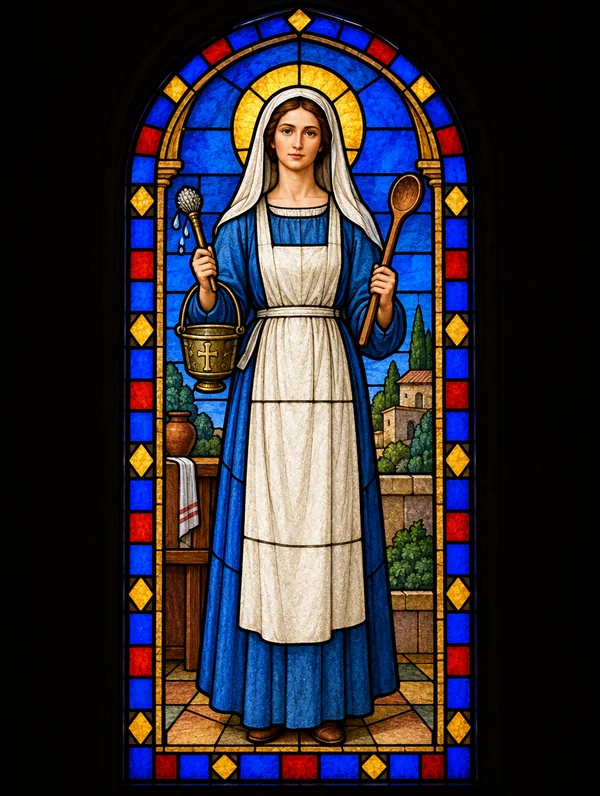
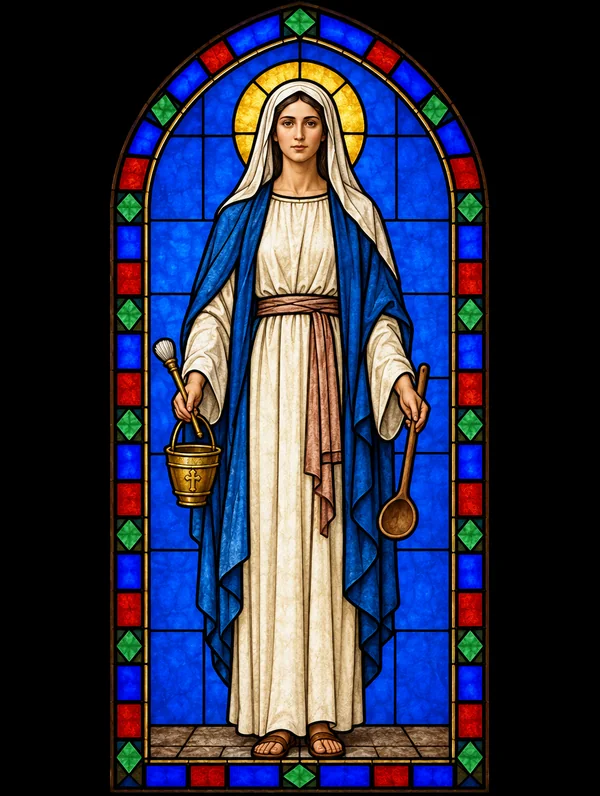
Mais quatro imagens refeitas: Helena, Marta e as duas de São Josemaria
Helena: a cruz aparece inteira, com os dois braços do mesmo tamanho.
Marta: roupas da época de Jesus (túnica, manto, véu e sandálias), sem avental.
Josemaria: o selo passa a ser o emblema do Opus Dei enviado pelo Daniel,
na figura e no vitral de símbolos.

O cache de imagens sobe para v3, para os aparelhos receberem as novas.

diff --git a/testes/offline.js b/testes/offline.js
@@ -65,7 +65,7 @@ const relata = (nome, prob) => { linhas.push(`${nome}: problemas: ${prob.length 
       }
       await roda(`document.querySelector("#foot button").click()`);
       if (!await ate(`return document.getElementById("foot").textContent.startsWith("Pronto")`, 120)) prob.push("não terminou de guardar: " + await rodape());
-      const [tem, total] = await roda(`const q = window.__quiz; return [(await (await caches.open("quiz-santos-imagens-v2")).keys()).length, q.COM_FIGURA.length + q.COM_SIMBOLOS.length]`);
+      const [tem, total] = await roda(`const q = window.__quiz; return [(await (await caches.open("quiz-santos-imagens-v3")).keys()).length, q.COM_FIGURA.length + q.COM_SIMBOLOS.length]`);
       if (tem !== total) prob.push(`guardou ${tem} de ${total} imagens`);
       if (!await ate(`return !!navigator.serviceWorker.controller`, 10)) prob.push("o sw.js não assumiu a página");
     }

diff --git a/index.html b/index.html
@@ -1441,7 +1441,7 @@ h1 { font-family: var(--display); font-weight: 400; font-size: 2rem; margin: 0; 
   });
 
   // Jogar sem internet. O sw.js serve o que estiver guardado no aparelho; aqui se guardam as imagens todas de uma vez.
-  const CACHE_IMAGENS = "quiz-santos-imagens-v2"; // o mesmo nome que está no sw.js
+  const CACHE_IMAGENS = "quiz-santos-imagens-v3"; // o mesmo nome que está no sw.js
   const todasImagens = () => [...COM_FIGURA.map(id => arquivo("santos", id)), ...COM_SIMBOLOS.map(id => arquivo("simbolos", id))];
   const offline = {
     async faltam() {

diff --git a/sw.js b/sw.js
@@ -2,7 +2,7 @@
 // Mudou favicon, ícone ou manifesto: suba o número de CASCA. Refez imagem com o mesmo nome: ponha (ou suba) o número
 // dela em REFEITAS, no index.html, e só ela é baixada de novo. Subir o de IMAGENS faz baixar todas outra vez.
 const CASCA = "quiz-santos-casca-v1";
-const IMAGENS = "quiz-santos-imagens-v2";
+const IMAGENS = "quiz-santos-imagens-v3";
 const ARQUIVOS = ["./", "manifest.webmanifest", "favicon.svg", "favicon-180.png", "icone-192.png", "icone-512.png", "icone-mascara-512.png"];
 
 self.addEventListener("install", e => e.waitUntil(

diff --git a/prompts-higgsfield.md b/prompts-higgsfield.md
@@ -58,7 +58,7 @@ Modelo `gpt_image_2_5`, qualidade `high`, resolução `1k`, proporção 3:4.
 | 38 | martinho | São Martinho de Tours | Saint Martin of Tours, Roman soldier on horseback, cutting his red cloak in half with a sword to share with a poor beggar | capa cortada ao meio, mendigo | a red cloak cut in two halves by a sword, and a white goose |
 | 39 | ambrosio | Santo Ambrósio | Saint Ambrose, bishop with mitre and crozier, a straw beehive with bees beside him | colmeia, abelhas | a straw beehive with bees flying around it, and a bishop's mitre |
 | 40 | gregorio | São Gregório Magno | Saint Gregory the Great, pope with triple papal tiara, writing, a white dove whispering at his ear | tiara papal, pomba no ouvido | a papal tiara with three crowns, and a white dove |
-| 41 | helena | Santa Helena | Saint Helena, empress with crown and royal mantle, holding a large wooden cross and three nails | cruz grande, cravos, coroa | a large wooden cross, exactly three iron nails, and an imperial golden crown |
+| 41 | helena | Santa Helena | Saint Helena, empress with crown and royal mantle, holding three nails in one hand and, with the other hand, a tall wooden Latin cross standing upright beside her, the entire cross visible against the background, its crossbar with two arms of exactly equal length, neither arm hidden by her head, veil or halo | cruz grande, cravos, coroa | a large wooden cross, exactly three iron nails, and an imperial golden crown |
 | 42 | pio | São Pio de Pietrelcina | Saint Padre Pio, Capuchin brown habit, white beard, brown fingerless half-gloves on his hands, holding a rosary | meias-luvas, terço | a hand wearing a brown fingerless glove, and a rosary |
 | 43 | joana | Santa Joana d'Arc | Saint Joan of Arc, young woman in silver armor, holding a white banner with golden fleurs-de-lis | armadura, estandarte com flor-de-lis | a white banner with golden fleurs-de-lis on a pole, and a steel knight's helmet |
 | 44 | cosme | São Cosme e São Damião | Saints Cosmas and Damian, twin brothers in red physician robes, holding medicine jars and a mortar and pestle | 2 irmãos, frascos de remédio | two apothecary medicine jars, and a mortar with pestle |
@@ -86,7 +86,7 @@ Modelo `gpt_image_2_5`, qualidade `high`, resolução `1k`, proporção 3:4.
 | 66 | longuinho | São Longuinho | Saint Longinus, Roman soldier on foot, anatomically correct with exactly two arms and two hands: his RIGHT hand grips a long upright lance with drops of blood on its tip, the lance standing on the left side of the image; his LEFT hand is raised to touch his eye, with rays of light around the eye; no third arm, no extra hands, both arms clearly attached to his shoulders | só 2 braços, lança na mão direita, a outra mão no olho (sem dragão nem cavalo, para não virar São Jorge) | a long lance with drops of blood on its tip, and a single eye surrounded by rays of light |
 | 67 | joaopaulo | São João Paulo II | Saint John Paul II, pope in white cassock, holding a silver papal staff topped with a crucifix, blue shield with a golden cross and the letter M | báculo com crucifixo, brasão com cruz e M (só aqui pode ter a letra M) | a silver papal staff topped with a crucifix, and a blue shield with a golden cross and the letter M |
 | 68 | rafael | São Rafael Arcanjo | Saint Raphael the Archangel, large wings, pilgrim staff, holding a large fish | asas, peixe (sem balança, para não virar São Miguel) | a pair of large white angel wings, and a large fish |
-| 69 | josemaria | São Josemaria Escrivá | Saint Josemaría Escrivá, 20th-century Spanish priest with round glasses, black cassock, holding a single gilded wooden rose and a closed book, a round seal with a plain cross inside a circle on the wall behind him | cruz dentro de um círculo, rosa dourada, livro | a round seal showing a plain cross inside a circle, a single gilded wooden rose, and a closed book |
+| 69 | josemaria | São Josemaria Escrivá | Saint Josemaría Escrivá, 20th-century Spanish priest with round glasses, black cassock, holding a single gilded wooden rose and a closed book, a round seal on the wall behind him with the Opus Dei emblem (reference image img/referencias/opusdei.png): a thin circle containing a thin Latin cross whose vertical line runs the full diameter and whose horizontal line is a chord placed high, all four ends touching the circle | cruz dentro de um círculo, rosa dourada, livro | the Opus Dei emblem (reference image img/referencias/opusdei.png): a circle containing a Latin cross whose vertical line runs the full diameter and whose horizontal line is a chord placed high, all four ends touching the circle, a single gilded wooden rose, and a closed book |
 | 70 | ana | Santa Ana | Saint Anne, elderly woman in green dress and red mantle with a veil, teaching the young Virgin Mary, a little girl, to read from an open book | livro aberto, Maria menina | an open book with a little girl in a blue dress reading it, the child Virgin Mary |
 | 71 | monica | Santa Mônica | Saint Monica, elderly widow in black dress and white veil, holding a white handkerchief, tears on her face, a black leather belt at her waist | lenço, lágrimas, correia preta | a white handkerchief with falling teardrops, and a black leather belt with a buckle |
 | 72 | veronica | Santa Verônica | Saint Veronica, woman in a veil holding up a white cloth imprinted with the face of Jesus crowned with thorns | pano com o rosto de Cristo | a white cloth veil imprinted with the face of Jesus crowned with thorns |
@@ -97,7 +97,7 @@ Modelo `gpt_image_2_5`, qualidade `high`, resolução `1k`, proporção 3:4.
 | 77 | joaobosco | São João Bosco | Saint John Bosco, 19th-century Italian priest in black cassock with short dark curly hair, smiling, a ship anchored between two tall columns in the sea behind him | navio entre duas colunas | a sailing ship anchored between two tall stone columns rising from the sea, one column topped by a white host, the other by a small statue of the Virgin Mary |
 | 78 | carloacutis | São Carlo Acutis | Saint Carlo Acutis, teenage boy with dark curly hair, red polo shirt, jeans and sneakers, a backpack on his shoulder, holding a laptop computer, a white host shining above | computador, mochila, hóstia | a laptop computer, a school backpack, and a shining white host above them |
 | 79 | vicentepaulo | São Vicente de Paulo | Saint Vincent de Paul, elderly priest with white beard, black cassock and black skullcap, holding a swaddled baby in his arms, a basket with bread at his feet | bebê nos braços, pão | a swaddled foundling baby lying in a wicker basket, and a loaf of bread |
-| 80 | marta | Santa Marta | Saint Martha of Bethany, woman in a simple dress and apron with a veil, holding a holy water bucket with an aspergillum in one hand and a wooden kitchen ladle in the other, no dragon | caldeirinha com hissope, concha | a holy water bucket with an aspergillum sprinkler, and a wooden kitchen ladle |
+| 80 | marta | Santa Marta | Saint Martha of Bethany, a Jewish woman of first-century Judea in the time of Jesus, dressed like the biblical women in traditional sacred art: a long loose ankle-length tunic with wide sleeves, a draped mantle over her shoulders, a long veil covering her hair, a simple cloth sash at the waist, leather sandals, no apron, no fitted bodice, no medieval or modern clothing, plain blue glass background, exactly two arms and two hands, holding a holy water bucket with an aspergillum in one hand and a wooden kitchen ladle in the other, no dragon | caldeirinha com hissope, concha | a holy water bucket with an aspergillum sprinkler, and a wooden kitchen ladle |
 | 81 | isabel | Santa Isabel da Hungria | Saint Elizabeth of Hungary, young crowned princess in royal dress, holding her mantle open full of roses and bread loaves | coroa, pães, rosas no manto | a royal crown with plain pointed tips, loaves of bread, and red roses gathered in a folded cloth mantle |
 | 82 | catarinasena | Santa Catarina de Sena | Saint Catherine of Siena, Dominican tertiary in white habit and black mantle with white veil, holding a red heart in one hand, a golden ring on her finger, a white lily lying on a book | anel, coração, lírio sobre livro | a golden ring, a red heart, and a white lily lying on a closed book |
 | 83 | efigenia | Santa Efigênia | Saint Ephigenia of Ethiopia, Black nun in dark habit with a white veil, holding a small model of a church with flames on its roof, a royal crown lying at her feet | igrejinha em chamas na mão, coroa no chão | a small model of a church with flames rising from its roof, and a royal crown with plain pointed tips lying beside it |
